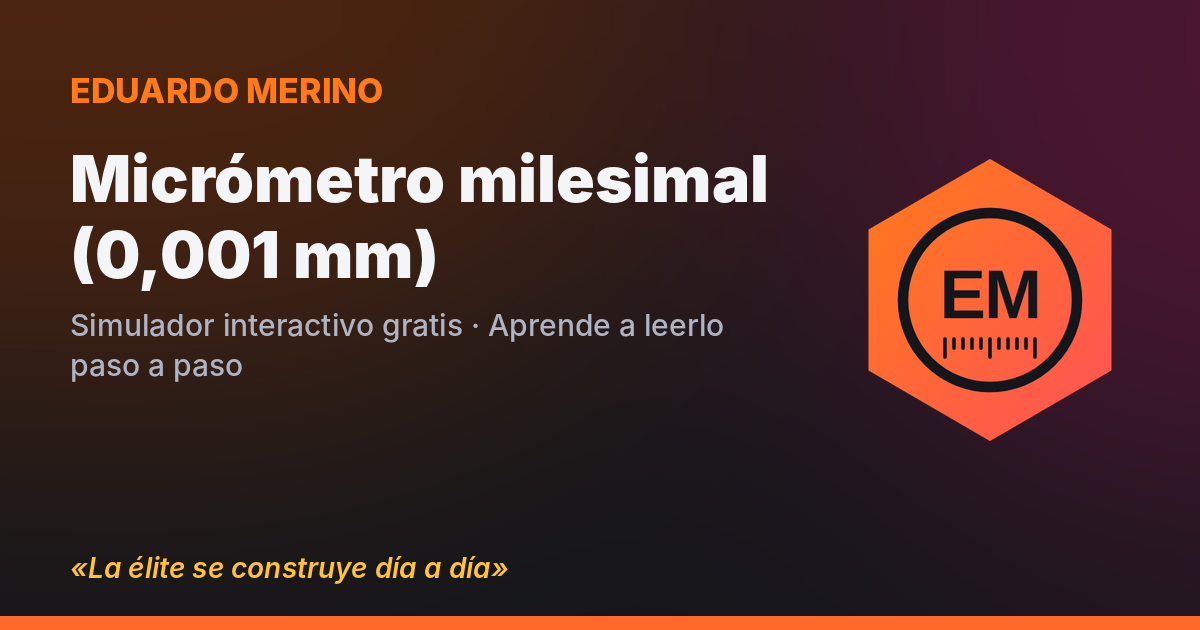
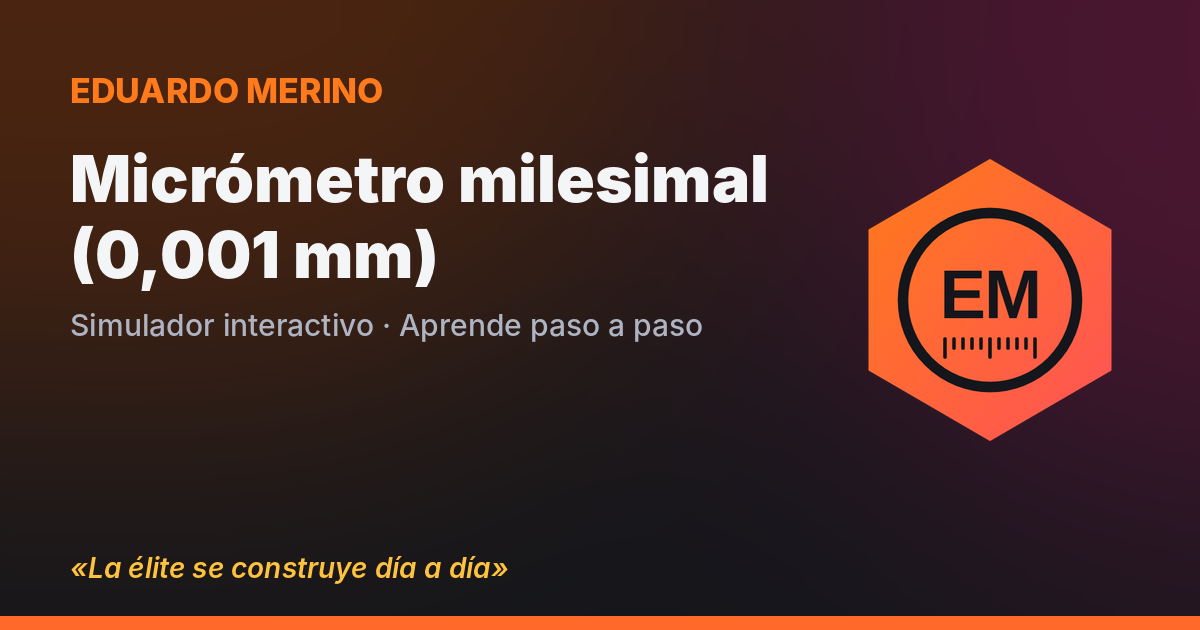
Quitar «gratis» de la presentación de la web
Claude-Session: https://claude.ai/code/session_013VB4QgyoHnUMZvjSykB81E

Changed region(s): [[0.3083, 0.4825, 0.6167, 0.5429], [0.0617, 0.573, 0.2158, 0.6032]]

diff --git a/instrumentos/micrometro-centesimal.html b/instrumentos/micrometro-centesimal.html
@@ -6,7 +6,7 @@
 <meta name="theme-color" content="#14161B">
 <!-- seo:inicio (generado por herramientas/generar.py) -->
 <title>Micrómetro centesimal online: simulador para leer 0,01 mm · Eduardo Merino</title>
-<meta name="description" content="Simulador gratuito de micrómetro de exteriores de 0 a 25 mm con apreciación de 0,01 mm. Gira el tambor, aprende a leer cilindro y tambor y comprueba tu lectura.">
+<meta name="description" content="Simulador de micrómetro de exteriores de 0 a 25 mm con apreciación de 0,01 mm. Gira el tambor, aprende a leer cilindro y tambor y comprueba tu lectura.">
 <meta name="robots" content="index, follow, max-image-preview:large, max-snippet:-1">
 <link rel="canonical" href="https://emerinoprados-elite.github.io/instrumentos/micrometro-centesimal.html">
 <meta name="author" content="Eduardo Merino">
@@ -15,7 +15,7 @@
 <meta property="og:locale" content="es_ES">
 <meta property="og:url" content="https://emerinoprados-elite.github.io/instrumentos/micrometro-centesimal.html">
 <meta property="og:title" content="Micrómetro centesimal online: simulador para leer 0,01 mm · Eduardo Merino">
-<meta property="og:description" content="Simulador gratuito de micrómetro de exteriores de 0 a 25 mm con apreciación de 0,01 mm. Gira el tambor, aprende a leer cilindro y tambor y comprueba tu lectura.">
+<meta property="og:description" content="Simulador de micrómetro de exteriores de 0 a 25 mm con apreciación de 0,01 mm. Gira el tambor, aprende a leer cilindro y tambor y comprueba tu lectura.">
 <meta property="og:image" content="https://emerinoprados-elite.github.io/assets/og/micrometro-centesimal.png">
 <meta property="og:image:width" content="1200">
 <meta property="og:image:height" content="630">
@@ -36,7 +36,7 @@
    "author": {
     "@id": "https://emerinoprados-elite.github.io/#autor"
    },
-   "description": "Simuladores interactivos gratuitos de mecánica, motor y electricidad con sus vídeos explicativos."
+   "description": "Simuladores interactivos de mecánica, motor y electricidad con sus vídeos explicativos."
   },
   {
    "@type": "Person",
@@ -68,16 +68,10 @@
    "url": "https://emerinoprados-elite.github.io/instrumentos/micrometro-centesimal.html",
    "name": "Micrómetro centesimal (0,01 mm)",
    "headline": "Micrómetro centesimal online: simulador para leer 0,01 mm",
-   "description": "Simulador gratuito de micrómetro de exteriores de 0 a 25 mm con apreciación de 0,01 mm. Gira el tambor, aprende a leer cilindro y tambor y comprueba tu lectura.",
+   "description": "Simulador de micrómetro de exteriores de 0 a 25 mm con apreciación de 0,01 mm. Gira el tambor, aprende a leer cilindro y tambor y comprueba tu lectura.",
    "inLanguage": "es",
    "applicationCategory": "EducationalApplication",
    "operatingSystem": "Cualquiera con navegador web",
-   "isAccessibleForFree": true,
-   "offers": {
-    "@type": "Offer",
-    "price": "0",
-    "priceCurrency": "EUR"
-   },
    "learningResourceType": "Simulador interactivo",
    "educationalLevel": "Formación Profesional",
    "audience": {
@@ -451,7 +445,7 @@
   <p><button type="button" class="compartir" data-url="https://emerinoprados-elite.github.io/instrumentos/micrometro-centesimal.html" data-titulo="Micrómetro centesimal online: simulador para leer 0,01 mm">📤 Compartir este simulador</button></p>
   <h3>Sigue practicando</h3>
   <div class="relacion"><a href="../instrumentos/calibre.html">📏 Calibre (pie de rey)</a><a href="../instrumentos/micrometro-milesimal.html">⚙ Micrómetro milesimal (0,001 mm)</a><a href="../progreso/">🏆 Mi progreso</a><a href="../">🏠 Todas las secciones</a></div>
-  <p>Simulador creado por <a href="../sobre-mi/">Eduardo Merino</a>. Gratis, sin registro y sin cookies. Puedes usarlo en clase, en el taller o en casa.</p>
+  <p>Simulador creado por <a href="../sobre-mi/">Eduardo Merino</a>. Sin registro y sin cookies. Puedes usarlo en clase, en el taller o en casa.</p>
 </article>
 <script>
 document.querySelectorAll(".guia .compartir").forEach(b => b.addEventListener("click", async () => {

diff --git a/instrumentos/micrometro-milesimal.html b/instrumentos/micrometro-milesimal.html
@@ -6,7 +6,7 @@
 <meta name="theme-color" content="#14161B">
 <!-- seo:inicio (generado por herramientas/generar.py) -->
 <title>Micrómetro milesimal online: simulador con nonio de 0,001 mm · Eduardo Merino</title>
-<meta name="description" content="Simulador gratuito de micrómetro de 0,001 mm con nonio. Aprende a leer cilindro, tambor y nonio hasta la micra y ponte a prueba con piezas al azar.">
+<meta name="description" content="Simulador de micrómetro de 0,001 mm con nonio. Aprende a leer cilindro, tambor y nonio hasta la micra y ponte a prueba con piezas al azar.">
 <meta name="robots" content="index, follow, max-image-preview:large, max-snippet:-1">
 <link rel="canonical" href="https://emerinoprados-elite.github.io/instrumentos/micrometro-milesimal.html">
 <meta name="author" content="Eduardo Merino">
@@ -15,7 +15,7 @@
 <meta property="og:locale" content="es_ES">
 <meta property="og:url" content="https://emerinoprados-elite.github.io/instrumentos/micrometro-milesimal.html">
 <meta property="og:title" content="Micrómetro milesimal online: simulador con nonio de 0,001 mm · Eduardo Merino">
-<meta property="og:description" content="Simulador gratuito de micrómetro de 0,001 mm con nonio. Aprende a leer cilindro, tambor y nonio hasta la micra y ponte a prueba con piezas al azar.">
+<meta property="og:description" content="Simulador de micrómetro de 0,001 mm con nonio. Aprende a leer cilindro, tambor y nonio hasta la micra y ponte a prueba con piezas al azar.">
 <meta property="og:image" content="https://emerinoprados-elite.github.io/assets/og/micrometro-milesimal.png">
 <meta property="og:image:width" content="1200">
 <meta property="og:image:height" content="630">
@@ -36,7 +36,7 @@
    "author": {
     "@id": "https://emerinoprados-elite.github.io/#autor"
    },
-   "description": "Simuladores interactivos gratuitos de mecánica, motor y electricidad con sus vídeos explicativos."
+   "description": "Simuladores interactivos de mecánica, motor y electricidad con sus vídeos explicativos."
   },
   {
    "@type": "Person",
@@ -68,16 +68,10 @@
    "url": "https://emerinoprados-elite.github.io/instrumentos/micrometro-milesimal.html",
    "name": "Micrómetro milesimal (0,001 mm)",
    "headline": "Micrómetro milesimal online: simulador con nonio de 0,001 mm",
-   "description": "Simulador gratuito de micrómetro de 0,001 mm con nonio. Aprende a leer cilindro, tambor y nonio hasta la micra y ponte a prueba con piezas al azar.",
+   "description": "Simulador de micrómetro de 0,001 mm con nonio. Aprende a leer cilindro, tambor y nonio hasta la micra y ponte a prueba con piezas al azar.",
    "inLanguage": "es",
    "applicationCategory": "EducationalApplication",
    "operatingSystem": "Cualquiera con navegador web",
-   "isAccessibleForFree": true,
-   "offers": {
-    "@type": "Offer",
-    "price": "0",
-    "priceCurrency": "EUR"
-   },
    "learningResourceType": "Simulador interactivo",
    "educationalLevel": "Formación Profesional",
    "audience": {
@@ -443,7 +437,7 @@
   <p><button type="button" class="compartir" data-url="https://emerinoprados-elite.github.io/instrumentos/micrometro-milesimal.html" data-titulo="Micrómetro milesimal online: simulador con nonio de 0,001 mm">📤 Compartir este simulador</button></p>
   <h3>Sigue practicando</h3>
   <div class="relacion"><a href="../instrumentos/calibre.html">📏 Calibre (pie de rey)</a><a href="../instrumentos/micrometro-centesimal.html">🔩 Micrómetro centesimal (0,01 mm)</a><a href="../progreso/">🏆 Mi progreso</a><a href="../">🏠 Todas las secciones</a></div>
-  <p>Simulador creado por <a href="../sobre-mi/">Eduardo Merino</a>. Gratis, sin registro y sin cookies. Puedes usarlo en clase, en el taller o en casa.</p>
+  <p>Simulador creado por <a href="../sobre-mi/">Eduardo Merino</a>. Sin registro y sin cookies. Puedes usarlo en clase, en el taller o en casa.</p>
 </article>
 <script>
 document.querySelectorAll(".guia .compartir").forEach(b => b.addEventListener("click", async () => {

diff --git a/instrumentos/calibre.html b/instrumentos/calibre.html
@@ -6,7 +6,7 @@
 <meta name="theme-color" content="#14161B">
 <!-- seo:inicio (generado por herramientas/generar.py) -->
 <title>Calibre pie de rey online: simulador para aprender a medir con nonio · Eduardo Merino</title>
-<meta name="description" content="Simulador gratuito de calibre o pie de rey con nonio de 0,1, 0,05 y 0,02 mm. Aprende a leer la medida paso a paso y ponte a prueba con piezas al azar.">
+<meta name="description" content="Simulador de calibre o pie de rey con nonio de 0,1, 0,05 y 0,02 mm. Aprende a leer la medida paso a paso y ponte a prueba con piezas al azar.">
 <meta name="robots" content="index, follow, max-image-preview:large, max-snippet:-1">
 <link rel="canonical" href="https://emerinoprados-elite.github.io/instrumentos/calibre.html">
 <meta name="author" content="Eduardo Merino">
@@ -15,7 +15,7 @@
 <meta property="og:locale" content="es_ES">
 <meta property="og:url" content="https://emerinoprados-elite.github.io/instrumentos/calibre.html">
 <meta property="og:title" content="Calibre pie de rey online: simulador para aprender a medir con nonio · Eduardo Merino">
-<meta property="og:description" content="Simulador gratuito de calibre o pie de rey con nonio de 0,1, 0,05 y 0,02 mm. Aprende a leer la medida paso a paso y ponte a prueba con piezas al azar.">
+<meta property="og:description" content="Simulador de calibre o pie de rey con nonio de 0,1, 0,05 y 0,02 mm. Aprende a leer la medida paso a paso y ponte a prueba con piezas al azar.">
 <meta property="og:image" content="https://emerinoprados-elite.github.io/assets/og/calibre.png">
 <meta property="og:image:width" content="1200">
 <meta property="og:image:height" content="630">
@@ -36,7 +36,7 @@
    "author": {
     "@id": "https://emerinoprados-elite.github.io/#autor"
    },
-   "description": "Simuladores interactivos gratuitos de mecánica, motor y electricidad con sus vídeos explicativos."
+   "description": "Simuladores interactivos de mecánica, motor y electricidad con sus vídeos explicativos."
   },
   {
    "@type": "Person",
@@ -68,16 +68,10 @@
    "url": "https://emerinoprados-elite.github.io/instrumentos/calibre.html",
    "name": "Calibre (pie de rey)",
    "headline": "Calibre pie de rey online: simulador para aprender a medir con nonio",
-   "description": "Simulador gratuito de calibre o pie de rey con nonio de 0,1, 0,05 y 0,02 mm. Aprende a leer la medida paso a paso y ponte a prueba con piezas al azar.",
+   "description": "Simulador de calibre o pie de rey con nonio de 0,1, 0,05 y 0,02 mm. Aprende a leer la medida paso a paso y ponte a prueba con piezas al azar.",
    "inLanguage": "es",
    "applicationCategory": "EducationalApplication",
    "operatingSystem": "Cualquiera con navegador web",
-   "isAccessibleForFree": true,
-   "offers": {
-    "@type": "Offer",
-    "price": "0",
-    "priceCurrency": "EUR"
-   },
    "learningResourceType": "Simulador interactivo",
    "educationalLevel": "Formación Profesional",
    "audience": {
@@ -409,7 +403,7 @@
   <p><button type="button" class="compartir" data-url="https://emerinoprados-elite.github.io/instrumentos/calibre.html" data-titulo="Calibre pie de rey online: simulador para aprender a medir con nonio">📤 Compartir este simulador</button></p>
   <h3>Sigue practicando</h3>
   <div class="relacion"><a href="../instrumentos/micrometro-centesimal.html">🔩 Micrómetro centesimal (0,01 mm)</a><a href="../instrumentos/micrometro-milesimal.html">⚙ Micrómetro milesimal (0,001 mm)</a><a href="../progreso/">🏆 Mi progreso</a><a href="../">🏠 Todas las secciones</a></div>
-  <p>Simulador creado por <a href="../sobre-mi/">Eduardo Merino</a>. Gratis, sin registro y sin cookies. Puedes usarlo en clase, en el taller o en casa.</p>
+  <p>Simulador creado por <a href="../sobre-mi/">Eduardo Merino</a>. Sin registro y sin cookies. Puedes usarlo en clase, en el taller o en casa.</p>
 </article>
 <script>
 document.querySelectorAll(".guia .compartir").forEach(b => b.addEventListener("click", async () => {

diff --git a/index.html b/index.html
@@ -4,7 +4,7 @@
 <meta charset="utf-8">
 <meta name="viewport" content="width=device-width, initial-scale=1">
 <title>Eduardo Merino · Simuladores de mecánica, motor y electricidad</title>
-<meta name="description" content="Simuladores interactivos gratuitos de calibre, micrómetro, motor de combustión y electricidad, con sus vídeos explicativos. Para FP y taller. La élite se construye día a día.">
+<meta name="description" content="Simuladores interactivos de calibre, micrómetro, motor de combustión y electricidad, con sus vídeos explicativos. Para FP y taller. La élite se construye día a día.">
 <meta name="robots" content="index, follow, max-image-preview:large, max-snippet:-1">
 <link rel="canonical" href="https://emerinoprados-elite.github.io/">
 <meta name="author" content="Eduardo Merino">
@@ -13,7 +13,7 @@
 <meta property="og:locale" content="es_ES">
 <meta property="og:url" content="https://emerinoprados-elite.github.io/">
 <meta property="og:title" content="Eduardo Merino · Simuladores de mecánica, motor y electricidad">
-<meta property="og:description" content="Simuladores interactivos gratuitos de calibre, micrómetro, motor de combustión y electricidad, con sus vídeos explicativos. Para FP y taller. La élite se construye día a día.">
+<meta property="og:description" content="Simuladores interactivos de calibre, micrómetro, motor de combustión y electricidad, con sus vídeos explicativos. Para FP y taller. La élite se construye día a día.">
 <meta property="og:image" content="https://emerinoprados-elite.github.io/assets/og/web.png">
 <meta property="og:image:width" content="1200">
 <meta property="og:image:height" content="630">
@@ -34,7 +34,7 @@
    "author": {
     "@id": "https://emerinoprados-elite.github.io/#autor"
    },
-   "description": "Simuladores interactivos gratuitos de mecánica, motor y electricidad con sus vídeos explicativos."
+   "description": "Simuladores interactivos de mecánica, motor y electricidad con sus vídeos explicativos."
   },
   {
    "@type": "Person",
@@ -94,7 +94,7 @@
     <div>
       <h1>Mecánica y electricidad <span class="grad">para practicar</span></h1>
       <p class="lema">«La élite se construye día a día»</p>
-      <p>Simuladores interactivos del profesor Eduardo Merino para practicar mecánica, motor y electricidad: calibre, micrómetro, motor de combustión, vehículos eléctricos e híbridos, sistemas ADAS y mucho más. Cada vídeo del canal tiene aquí su simulador para practicar todo lo que quieras. Gratis, sin registro y desde el móvil en el taller o el ordenador en casa.</p>
+      <p>Simuladores interactivos del profesor Eduardo Merino para practicar mecánica, motor y electricidad: calibre, micrómetro, motor de combustión, vehículos eléctricos e híbridos, sistemas ADAS y mucho más. Cada vídeo del canal tiene aquí su simulador para practicar todo lo que quieras. Sin registro y desde el móvil en el taller o el ordenador en casa.</p>
       <div class="botones">
         <a class="btn prim" href="instrumentos/">📏 Probar los instrumentos</a>
         <a class="btn yt" href="https://www.youtube.com/channel/UCbV5IvL8QP6eIf52zjU3dcQ" target="_blank" rel="noopener"><svg class="ico" viewBox="0 0 24 24" aria-hidden="true"><path d="M23.5 6.2a3 3 0 0 0-2.1-2.1C19.5 3.6 12 3.6 12 3.6s-7.5 0-9.4.5A3 3 0 0 0 .5 6.2 31 31 0 0 0 0 12a31 31 0 0 0 .5 5.8 3 3 0 0 0 2.1 2.1c1.9.5 9.4.5 9.4.5s7.5 0 9.4-.5a3 3 0 0 0 2.1-2.1A31 31 0 0 0 24 12a31 31 0 0 0-.5-5.8zM9.6 15.6V8.4l6.3 3.6-6.3 3.6z"/></svg> Ver el canal</a>

diff --git a/taller-motor/index.html b/taller-motor/index.html
@@ -5,7 +5,7 @@
 <meta name="viewport" content="width=device-width,initial-scale=1,viewport-fit=cover">
 <!-- seo:inicio (generado por herramientas/generar.py) -->
 <title>Taller 3D del motor: despiece, montaje y averías del motor de combustión · Eduardo Merino</title>
-<meta name="description" content="Simulador 3D gratuito del motor de combustión: explora sus 12 piezas, móntalo en el orden correcto y diagnostica averías reales de taller como la junta de culata o la correa de distribución.">
+<meta name="description" content="Simulador 3D del motor de combustión: explora sus 12 piezas, móntalo en el orden correcto y diagnostica averías reales de taller como la junta de culata o la correa de distribución.">
 <meta name="robots" content="index, follow, max-image-preview:large, max-snippet:-1">
 <link rel="canonical" href="https://emerinoprados-elite.github.io/taller-motor/">
 <meta name="author" content="Eduardo Merino">
@@ -14,7 +14,7 @@
 <meta property="og:locale" content="es_ES">
 <meta property="og:url" content="https://emerinoprados-elite.github.io/taller-motor/">
 <meta property="og:title" content="Taller 3D del motor: despiece, montaje y averías del motor de combustión · Eduardo Merino">
-<meta property="og:description" content="Simulador 3D gratuito del motor de combustión: explora sus 12 piezas, móntalo en el orden correcto y diagnostica averías reales de taller como la junta de culata o la correa de distribución.">
+<meta property="og:description" content="Simulador 3D del motor de combustión: explora sus 12 piezas, móntalo en el orden correcto y diagnostica averías reales de taller como la junta de culata o la correa de distribución.">
 <meta property="og:image" content="https://emerinoprados-elite.github.io/assets/og/taller-motor.png">
 <meta property="og:image:width" content="1200">
 <meta property="og:image:height" content="630">
@@ -35,7 +35,7 @@
    "author": {
     "@id": "https://emerinoprados-elite.github.io/#autor"
    },
-   "description": "Simuladores interactivos gratuitos de mecánica, motor y electricidad con sus vídeos explicativos."
+   "description": "Simuladores interactivos de mecánica, motor y electricidad con sus vídeos explicativos."
   },
   {
    "@type": "Person",
@@ -67,16 +67,10 @@
    "url": "https://emerinoprados-elite.github.io/taller-motor/",
    "name": "Taller 3D del motor",
    "headline": "Taller 3D del motor: despiece, montaje y averías del motor de combustión",
-   "description": "Simulador 3D gratuito del motor de combustión: explora sus 12 piezas, móntalo en el orden correcto y diagnostica averías reales de taller como la junta de culata o la correa de distribución.",
+   "description": "Simulador 3D del motor de combustión: explora sus 12 piezas, móntalo en el orden correcto y diagnostica averías reales de taller como la junta de culata o la correa de distribución.",
    "inLanguage": "es",
    "applicationCategory": "EducationalApplication",
    "operatingSystem": "Cualquiera con navegador web",
-   "isAccessibleForFree": true,
-   "offers": {
-    "@type": "Offer",
-    "price": "0",
-    "priceCurrency": "EUR"
-   },
    "learningResourceType": "Simulador interactivo",
    "educationalLevel": "Formación Profesional",
    "audience": {

diff --git a/instrumentos/index.html b/instrumentos/index.html
@@ -3,7 +3,7 @@
 <head>
 <meta charset="utf-8">
 <meta name="viewport" content="width=device-width, initial-scale=1">
-<title>Simuladores de calibre y micrómetro online gratis · Eduardo Merino</title>
+<title>Simuladores de calibre y micrómetro online · Eduardo Merino</title>
 <meta name="description" content="Calibre (pie de rey) y micrómetros centesimal y milesimal interactivos, con modo reto, puntos e insignias para aprender a medir con nonio y tambor.">
 <meta name="robots" content="index, follow, max-image-preview:large, max-snippet:-1">
 <link rel="canonical" href="https://emerinoprados-elite.github.io/instrumentos/">
@@ -12,7 +12,7 @@
 <meta property="og:site_name" content="Eduardo Merino">
 <meta property="og:locale" content="es_ES">
 <meta property="og:url" content="https://emerinoprados-elite.github.io/instrumentos/">
-<meta property="og:title" content="Simuladores de calibre y micrómetro online gratis · Eduardo Merino">
+<meta property="og:title" content="Simuladores de calibre y micrómetro online · Eduardo Merino">
 <meta property="og:description" content="Calibre (pie de rey) y micrómetros centesimal y milesimal interactivos, con modo reto, puntos e insignias para aprender a medir con nonio y tambor.">
 <meta property="og:image" content="https://emerinoprados-elite.github.io/assets/og/web.png">
 <meta property="og:image:width" content="1200">
@@ -34,7 +34,7 @@
    "author": {
     "@id": "https://emerinoprados-elite.github.io/#autor"
    },
-   "description": "Simuladores interactivos gratuitos de mecánica, motor y electricidad con sus vídeos explicativos."
+   "description": "Simuladores interactivos de mecánica, motor y electricidad con sus vídeos explicativos."
   },
   {
    "@type": "Person",
@@ -134,7 +134,7 @@
   <nav class="migas" aria-label="Estás en"><a href="../">Inicio</a> › <span>Simuladores de medida</span></nav>
   <section class="seccion" style="margin-top:4px">
     <h1 class="titular">📏 Simuladores de medida</h1>
-    <p>Aprende metrología de taller con instrumentos que se mueven como los de verdad. Ábrelos, muévelos y lee la medida; cuando lo tengas claro, pasa al modo reto con piezas al azar, suma puntos, sube de nivel y gana insignias. Todos funcionan gratis desde el móvil o el ordenador, sin registro y también sin conexión.</p>
+    <p>Aprende metrología de taller con instrumentos que se mueven como los de verdad. Ábrelos, muévelos y lee la medida; cuando lo tengas claro, pasa al modo reto con piezas al azar, suma puntos, sube de nivel y gana insignias. Todos funcionan desde el móvil o el ordenador, sin registro y también sin conexión.</p>
     <div class="rejilla"><article class="tarjeta">
   <h3><span class="em" aria-hidden="true">📏</span><a href="../instrumentos/calibre.html">Calibre (pie de rey)</a></h3>
   <div class="etiquetas"><span>Medida</span><span>Nivel básico</span><span>Con reto</span></div>

diff --git a/sobre-mi/index.html b/sobre-mi/index.html
@@ -34,7 +34,7 @@
    "author": {
     "@id": "https://emerinoprados-elite.github.io/#autor"
    },
-   "description": "Simuladores interactivos gratuitos de mecánica, motor y electricidad con sus vídeos explicativos."
+   "description": "Simuladores interactivos de mecánica, motor y electricidad con sus vídeos explicativos."
   },
   {
    "@type": "Person",
@@ -91,7 +91,7 @@
     <h1 class="titular">Sobre <span class="grad">mí</span></h1>
     <p>Me llamo <b>Eduardo Merino</b> y soy profesor técnico de Formación Profesional de Transporte y Mantenimiento de Vehículos en la Comunidad de Madrid, con 19 años de experiencia en las aulas. También soy formador para servicios oficiales de diferentes marcas de automóviles y tengo una larga trayectoria reparando coches en el taller.</p>
     <p>Este proyecto nace de una idea sencilla que he comprobado con cientos de alumnos: en el taller se aprende haciendo, y no siempre tienes delante un calibre, un micrómetro o un motor abierto para practicar.</p>
-    <p>Por eso cada vídeo de mi canal viene acompañado de un simulador interactivo que puedes usar gratis desde el móvil o el ordenador, tantas veces como quieras y sin registrarte. Empecé por los instrumentos de medida (el calibre o pie de rey y los micrómetros centesimal y milesimal) y la web crece con nuevas secciones: el motor de combustión y su ciclo de cuatro tiempos, mecánica de taller, electricidad, vehículos eléctricos e híbridos, sistemas ADAS y un simulador de averías para practicar el diagnóstico paso a paso.</p>
+    <p>Por eso cada vídeo de mi canal viene acompañado de un simulador interactivo que puedes usar desde el móvil o el ordenador, tantas veces como quieras y sin registrarte. Empecé por los instrumentos de medida (el calibre o pie de rey y los micrómetros centesimal y milesimal) y la web crece con nuevas secciones: el motor de combustión y su ciclo de cuatro tiempos, mecánica de taller, electricidad, vehículos eléctricos e híbridos, sistemas ADAS y un simulador de averías para practicar el diagnóstico paso a paso.</p>
     <p>Está pensado para estudiantes de Formación Profesional de automoción, mantenimiento, electricidad y fabricación mecánica, para aficionados y para cualquiera que quiera hacer las cosas bien en el taller. Todos los simuladores están hechos desde cero, con mis propios diseños, y tienen modo reto con puntos, niveles e insignias para practicar jugando.</p>
     <p class="lema" style="font-size:20px;font-style:italic;font-weight:700;color:var(--lema)">«La élite se construye día a día.»</p>
     <h2 style="margin-top:28px">Contacto</h2>

diff --git a/herramientas/paginas/sobre-mi.html b/herramientas/paginas/sobre-mi.html
@@ -2,7 +2,7 @@
     <h1 class="titular">Sobre <span class="grad">mí</span></h1>
     <p>Me llamo <b>Eduardo Merino</b> y soy profesor técnico de Formación Profesional de Transporte y Mantenimiento de Vehículos en la Comunidad de Madrid, con 19 años de experiencia en las aulas. También soy formador para servicios oficiales de diferentes marcas de automóviles y tengo una larga trayectoria reparando coches en el taller.</p>
     <p>Este proyecto nace de una idea sencilla que he comprobado con cientos de alumnos: en el taller se aprende haciendo, y no siempre tienes delante un calibre, un micrómetro o un motor abierto para practicar.</p>
-    <p>Por eso cada vídeo de mi canal viene acompañado de un simulador interactivo que puedes usar gratis desde el móvil o el ordenador, tantas veces como quieras y sin registrarte. Empecé por los instrumentos de medida (el calibre o pie de rey y los micrómetros centesimal y milesimal) y la web crece con nuevas secciones: el motor de combustión y su ciclo de cuatro tiempos, mecánica de taller, electricidad, vehículos eléctricos e híbridos, sistemas ADAS y un simulador de averías para practicar el diagnóstico paso a paso.</p>
+    <p>Por eso cada vídeo de mi canal viene acompañado de un simulador interactivo que puedes usar desde el móvil o el ordenador, tantas veces como quieras y sin registrarte. Empecé por los instrumentos de medida (el calibre o pie de rey y los micrómetros centesimal y milesimal) y la web crece con nuevas secciones: el motor de combustión y su ciclo de cuatro tiempos, mecánica de taller, electricidad, vehículos eléctricos e híbridos, sistemas ADAS y un simulador de averías para practicar el diagnóstico paso a paso.</p>
     <p>Está pensado para estudiantes de Formación Profesional de automoción, mantenimiento, electricidad y fabricación mecánica, para aficionados y para cualquiera que quiera hacer las cosas bien en el taller. Todos los simuladores están hechos desde cero, con mis propios diseños, y tienen modo reto con puntos, niveles e insignias para practicar jugando.</p>
     <p class="lema" style="font-size:20px;font-style:italic;font-weight:700;color:var(--lema)">«La élite se construye día a día.»</p>
     <h2 style="margin-top:28px">Contacto</h2>

diff --git a/sw.js b/sw.js
@@ -1,6 +1,6 @@
 /* Service worker: guarda la web para usarla sin conexión.
    VERSION y ARCHIVOS los actualiza herramientas/generar.py: así los móviles descargan lo nuevo. */
-const VERSION = "em-7dabfc79";
+const VERSION = "em-e8e7a8bd";
 const ARCHIVOS = [
   "./", "instrumentos/", "averias/", "motor/",
   "mecanica/", "electricidad/", "electricos/", "hibridos/",

diff --git a/adas/index.html b/adas/index.html
@@ -34,7 +34,7 @@
    "author": {
     "@id": "https://emerinoprados-elite.github.io/#autor"
    },
-   "description": "Simuladores interactivos gratuitos de mecánica, motor y electricidad con sus vídeos explicativos."
+   "description": "Simuladores interactivos de mecánica, motor y electricidad con sus vídeos explicativos."
   },
   {
    "@type": "Person",

diff --git a/averias/index.html b/averias/index.html
@@ -34,7 +34,7 @@
    "author": {
     "@id": "https://emerinoprados-elite.github.io/#autor"
    },
-   "description": "Simuladores interactivos gratuitos de mecánica, motor y electricidad con sus vídeos explicativos."
+   "description": "Simuladores interactivos de mecánica, motor y electricidad con sus vídeos explicativos."
   },
   {
    "@type": "Person",

diff --git a/electricidad/index.html b/electricidad/index.html
@@ -34,7 +34,7 @@
    "author": {
     "@id": "https://emerinoprados-elite.github.io/#autor"
    },
-   "description": "Simuladores interactivos gratuitos de mecánica, motor y electricidad con sus vídeos explicativos."
+   "description": "Simuladores interactivos de mecánica, motor y electricidad con sus vídeos explicativos."
   },
   {
    "@type": "Person",
